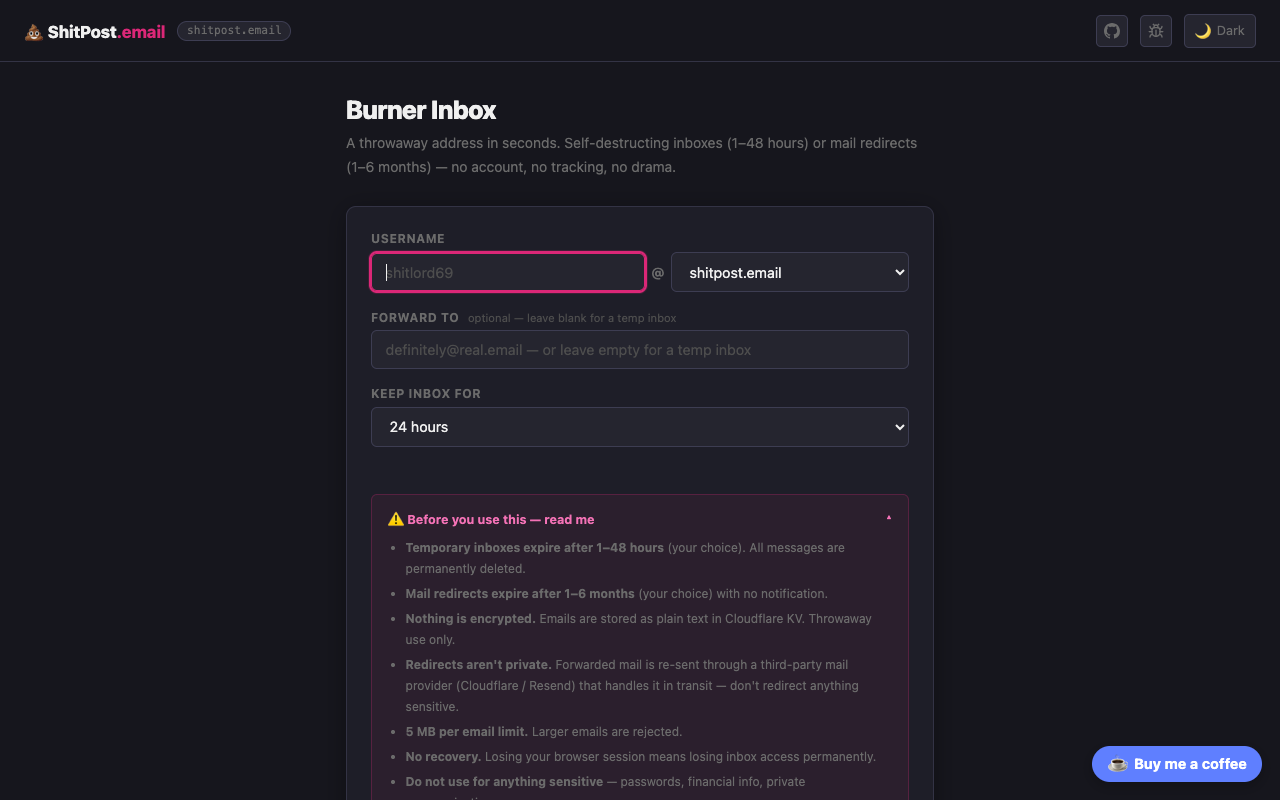
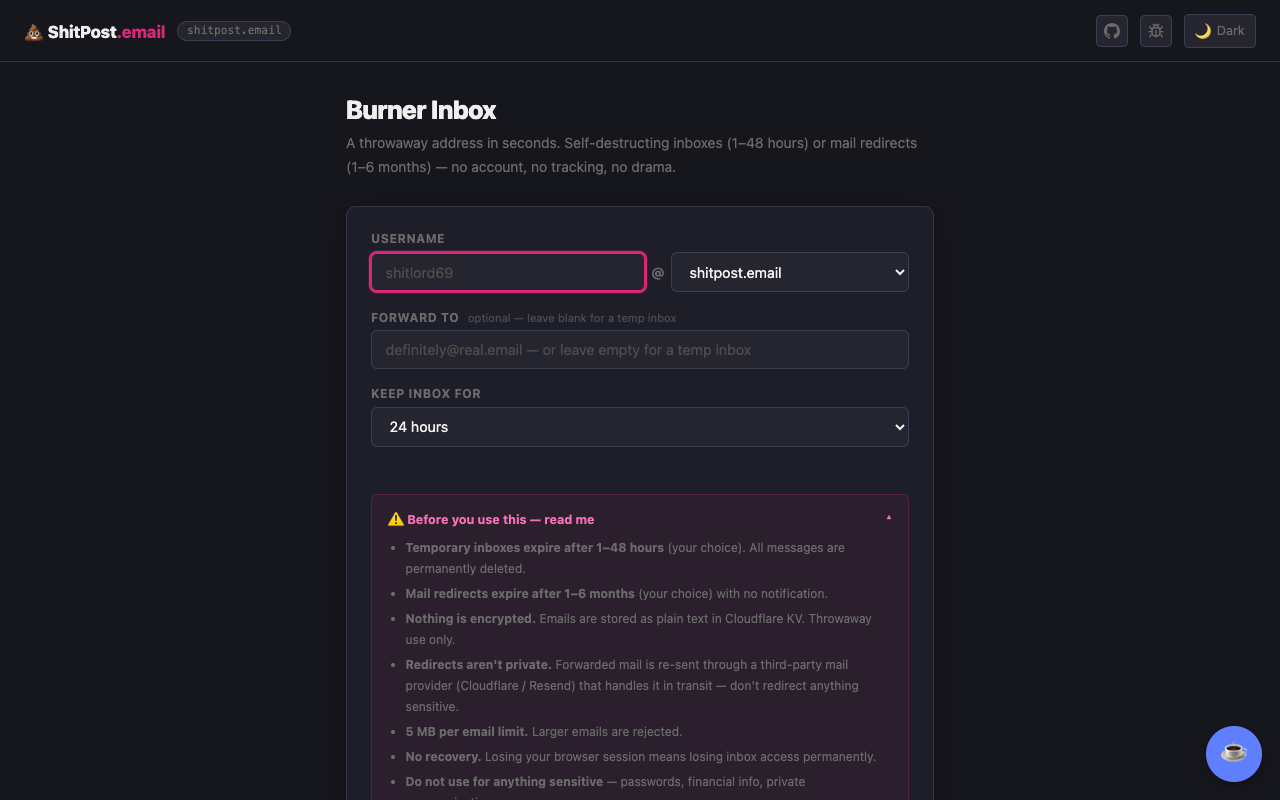
UI: self-hosted Buy Me a Coffee widget + light/dark README screenshots (v1.4.0)
- Replace the flat support link with a self-hosted recreation of the BMC
  floating-widget UX: a circular FAB that toggles a popover (message + CTA),
  wired by a small IIFE (click / click-outside / Esc; respects reduced motion).
  Still zero third-party scripts or external assets on the page.
- README screenshots now ship in light + dark variants that swap with the
  reader's GitHub theme (#gh-dark-mode-only / #gh-light-mode-only). Recaptured
  all four at 1280x800 to reflect the v1.4.0 UI.
- Docs (README, CLAUDE.md, CHANGELOG) + version bump to 1.4.0.

Changed region(s): [[0.8438, 0.9062, 1.0, 1.0]]

diff --git a/worker.js b/worker.js
@@ -457,10 +457,18 @@ header{border-bottom:1px solid var(--border);padding:.85rem 1.5rem;display:flex;
 .icon-btn:hover{border-color:var(--accent);color:var(--text)}
 .icon-btn:focus-visible{outline:2px solid var(--accent);outline-offset:2px}
 .icon-btn svg{width:16px;height:16px;display:block}
-.bmc-btn{position:fixed;right:18px;bottom:18px;z-index:50;display:inline-flex;align-items:center;gap:.4rem;background:#5F7FFF;color:#fff;font-family:inherit;font-size:.9rem;font-weight:700;padding:.6rem .95rem;border-radius:999px;text-decoration:none;box-shadow:0 4px 14px rgba(0,0,0,.25);transition:transform .15s,box-shadow .15s}
-.bmc-btn:hover{transform:translateY(-2px);box-shadow:0 6px 18px rgba(0,0,0,.3)}
-.bmc-btn:focus-visible{outline:2px solid #fff;outline-offset:2px}
-.bmc-btn .bmc-cup{font-size:1.05rem;line-height:1}
+.bmc{position:fixed;right:18px;bottom:18px;z-index:50;display:flex;flex-direction:column;align-items:flex-end;gap:.65rem}
+.bmc-pop{width:248px;background:var(--surface);border:1px solid var(--border);border-radius:14px;padding:1.05rem 1.15rem;box-shadow:var(--shadow);transform-origin:bottom right;opacity:0;visibility:hidden;transform:translateY(10px) scale(.96);pointer-events:none;transition:opacity .18s ease,transform .18s ease,visibility .18s}
+.bmc.open .bmc-pop{opacity:1;visibility:visible;transform:translateY(0) scale(1);pointer-events:auto}
+.bmc-msg{font-size:.92rem;font-weight:800;color:var(--text);margin:0 0 .25rem}
+.bmc-desc{font-size:.78rem;color:var(--muted);line-height:1.55;margin:0 0 .85rem}
+.bmc-cta{display:flex;align-items:center;justify-content:center;gap:.4rem;background:#5F7FFF;color:#fff;font-weight:700;font-size:.9rem;padding:.55rem .85rem;border-radius:9px;text-decoration:none}
+.bmc-cta:hover{opacity:.9}
+.bmc-cta:focus-visible{outline:2px solid var(--accent);outline-offset:2px}
+.bmc-fab{width:56px;height:56px;border-radius:50%;background:#5F7FFF;color:#fff;border:none;cursor:pointer;font-size:1.6rem;line-height:1;display:flex;align-items:center;justify-content:center;box-shadow:0 4px 14px rgba(0,0,0,.3);transition:transform .15s,box-shadow .15s}
+.bmc-fab:hover{transform:scale(1.06);box-shadow:0 6px 20px rgba(0,0,0,.36)}
+.bmc-fab:focus-visible{outline:2px solid var(--accent);outline-offset:3px}
+@media (prefers-reduced-motion:reduce){.bmc-pop,.bmc-fab{transition:none}}
 main{flex:1;padding:2rem 1rem;max-width:620px;margin:0 auto;width:100%}
 h1{font-size:1.6rem;font-weight:800;margin-bottom:.4rem;letter-spacing:-.02em}
 .sub{color:var(--muted);font-size:.875rem;line-height:1.7;margin-bottom:1.75rem}
@@ -550,9 +558,14 @@ footer{border-top:1px solid var(--border);padding:.8rem 1.5rem;text-align:center
 <main id="app" tabindex="-1"></main>
 <div id="announce" class="sr-only" aria-live="polite" aria-atomic="true"></div>
 <footer>No accounts · No tracking · Inboxes self-destruct after 24h · Zero fucks given</footer>
-<a class="bmc-btn" href="${BMC_URL}" target="_blank" rel="noopener noreferrer" aria-label="Buy me a coffee — support this project">
-  <span class="bmc-cup" aria-hidden="true">☕</span> Buy me a coffee
-</a>
+<div class="bmc" id="bmc">
+  <div class="bmc-pop" id="bmc-pop" role="dialog" aria-label="Support ShitPost.email">
+    <p class="bmc-msg">Thanks for your support! ☕</p>
+    <p class="bmc-desc">If a burner inbox saved your real one, a coffee keeps the lights on.</p>
+    <a class="bmc-cta" href="${BMC_URL}" target="_blank" rel="noopener noreferrer">Buy me a coffee</a>
+  </div>
+  <button class="bmc-fab" id="bmc-fab" type="button" aria-expanded="false" aria-controls="bmc-pop" aria-label="Support this project — buy me a coffee"><span aria-hidden="true">☕</span></button>
+</div>
 <script>
 const DOMAINS      = ${JSON.stringify(ALLOWED_DOMAINS)};
 const INIT_DOMAIN  = ${JSON.stringify(currentDomain)};
@@ -955,6 +968,17 @@ App.home();
 window.matchMedia('(prefers-color-scheme: dark)').addEventListener('change', () => {
   if (!localStorage.getItem('tm-theme')) App.home(); // re-render syncs the button
 });
+
+// Buy Me a Coffee widget (self-hosted — no third-party script). Toggle the popover.
+// Lives outside #app, so App re-renders never touch it; wired once.
+(function(){
+  const wrap = document.getElementById('bmc'), fab = document.getElementById('bmc-fab');
+  if (!wrap || !fab) return;
+  const set = open => { wrap.classList.toggle('open', open); fab.setAttribute('aria-expanded', open ? 'true' : 'false'); };
+  fab.addEventListener('click', e => { e.stopPropagation(); set(!wrap.classList.contains('open')); });
+  document.addEventListener('click', e => { if (!wrap.contains(e.target)) set(false); });
+  document.addEventListener('keydown', e => { if (e.key === 'Escape') set(false); });
+})();
 </script>
 </body>
 </html>`;

diff --git a/CLAUDE.md b/CLAUDE.md
@@ -7,7 +7,7 @@ ShitPost.email (repo: `throwaway-email`) is a disposable email service built as 
 **Stack:** Cloudflare Workers + Cloudflare KV + Cloudflare Email Routing
 **UI:** Hand-rolled vanilla JS + CSS, embedded as a template string in `worker.js` (no framework, no bundler)
 **Deploy:** `wrangler deploy`
-**Version:** 1.3.0
+**Version:** 1.4.0
 
 The single most important constraint: **everything stays in `worker.js`, dependency-free, paste-able straight into the Cloudflare dashboard editor.** Do not introduce a bundler, a framework, an npm runtime dependency, or a second source file without explicit agreement.
 
@@ -186,7 +186,9 @@ Every PR that changes code must update relevant documentation in the **same comm
 
 ### Screenshots
 
-`home.png` and `inbox.png` in `.github/screenshots/` are **captured by hand** from the live UI (there is no automated screenshot script). Recapture both when the home or inbox view changes visually — layout, controls, colors, or copy. Capture in **dark theme** (the default) at a typical desktop width to match the existing shots. Do not hand-edit the PNGs.
+`.github/screenshots/` holds four shots: `home.png` / `inbox.png` (dark) and `home-light.png` / `inbox-light.png` (light). The README pairs them with `#gh-dark-mode-only` / `#gh-light-mode-only` so they swap with the reader's GitHub theme. Recapture **all four** when the home or inbox view changes visually — layout, controls, colors, or copy.
+
+Capture at **1280×800** to match the existing shots. There's no committed script, but they regenerate cleanly by driving the local UI with a headless browser — run `wrangler dev`, then a one-off `puppeteer-core` (system Chrome via `executablePath`) script: set `page.emulateMediaFeatures([{ name: 'prefers-color-scheme', value: 'dark' | 'light' }])` for each theme, screenshot the home view, then create an inbox and intercept `GET /api/inbox` with sample messages for the inbox view (the `email()` handler can't run locally). Do not hand-edit the PNGs.
 
 ### Social preview card
 
@@ -287,14 +289,14 @@ Stored message bodies are clamped: `text` to 10 000 chars, `html` to 50 000 char
 - **Inbox polling:** auto-refreshes every `REFRESH_SECS` (30 s) with a visible countdown.
 - **Session token:** the inbox token is held **in memory only** (module-scoped `_inbox`), never persisted. Closing the tab discards it — by design.
 - **Header links:** two `.icon-btn` anchors — "View source on GitHub" (`REPO_URL`) and "Report a bug" (`REPO_URL` + `/issues/new?template=bug_report.yml`) — sit next to the theme toggle.
-- **Buy Me a Coffee button:** a self-hosted floating `.bmc-btn` anchor (fixed bottom-right, BMC brand color `#5F7FFF`, ☕ glyph) links to `BMC_URL`. **Not** the third-party BMC widget script — it's plain HTML/CSS, so the page loads **no** external client-side resources.
+- **Buy Me a Coffee widget:** a self-hosted recreation of the BMC floating-widget UX — a circular `.bmc-fab` button that toggles a `.bmc-pop` popover (message + CTA to `BMC_URL`), wired by a tiny IIFE at the end of the script (click / click-outside / Esc; respects `prefers-reduced-motion`). **Not** the third-party BMC widget script — it's plain HTML/CSS/JS, so the page loads **no** external client-side resources.
 - `buildHTML(currentDomain)` interpolates the current request's domain (so the displayed default matches the host) and the full `ALLOWED_DOMAINS` list into the dropdown.
 
 ---
 
 ## Conventions
 
-- **Single file, zero dependencies.** All production code stays in `worker.js`. Do not add an npm runtime dependency, a bundler, a framework, or a second source file. Wrangler (dev/deploy only) is the sole devDependency. The served page loads **no third-party client-side scripts or assets** either (the "Buy me a coffee" button is a self-hosted `<a>`, not the BMC widget) — keep it that way.
+- **Single file, zero dependencies.** All production code stays in `worker.js`. Do not add an npm runtime dependency, a bundler, a framework, or a second source file. Wrangler (dev/deploy only) is the sole devDependency. The served page loads **no third-party client-side scripts or assets** either (the "Buy me a coffee" floating widget is a self-hosted recreation, not the BMC widget script) — keep it that way.
 - **Paste-ability.** `worker.js` must remain valid to paste directly into the Cloudflare dashboard editor. No imports of local modules, no build-time transforms.
 - **Section discipline.** Keep new code under the matching banner comment (Config / MIME parser / Email / API / UI / Helpers / Exports).
 - **CORS stays open.** The API is intentionally `Access-Control-Allow-Origin: *`. Don't tighten it without a reason — the UI and any third-party caller depend on it.

diff --git a/README.md b/README.md
@@ -5,7 +5,7 @@
 
 [![License: MIT](https://img.shields.io/badge/License-MIT-db2777.svg)](LICENSE)
 [![CI](https://img.shields.io/github/actions/workflow/status/shamu4life/throwaway-email/ci.yml?branch=main&label=CI&color=db2777)](../../actions/workflows/ci.yml)
-[![Version](https://img.shields.io/badge/version-1.3.0-db2777.svg)](docs/CHANGELOG.md)
+[![Version](https://img.shields.io/badge/version-1.4.0-db2777.svg)](docs/CHANGELOG.md)
 [![Cloudflare Workers](https://img.shields.io/badge/Deployed_on-Cloudflare_Workers-f38020?logo=cloudflare&logoColor=white)](https://workers.cloudflare.com)
 [![Zero dependencies](https://img.shields.io/badge/dependencies-0-22c55e.svg)]()
 
@@ -38,7 +38,9 @@ You need an email address for a one-time signup, an OTP code, or a sketchy downl
 
 | Home | Inbox |
 |---|---|
-| ![Home — pick a username and domain, choose inbox or redirect](.github/screenshots/home.png) | ![Inbox — messages land in real time with a live countdown and dark/light theme](.github/screenshots/inbox.png) |
+| <img alt="Home — pick a username and domain, choose inbox or redirect" src=".github/screenshots/home.png#gh-dark-mode-only"><img alt="Home — pick a username and domain, choose inbox or redirect" src=".github/screenshots/home-light.png#gh-light-mode-only"> | <img alt="Inbox — messages land in real time with a live countdown" src=".github/screenshots/inbox.png#gh-dark-mode-only"><img alt="Inbox — messages land in real time with a live countdown" src=".github/screenshots/inbox-light.png#gh-light-mode-only"> |
+
+<sub>Screenshots swap automatically with your GitHub light/dark theme.</sub>
 
 ---
 
@@ -61,7 +63,7 @@ Instead of an inbox, point a throwaway address at a real one. Everything sent to
 <details>
 <summary><strong>Web UI</strong></summary>
 
-A fully functional single-page app served from the same Worker — no separate frontend, no framework, just hand-rolled vanilla JS and CSS embedded in `worker.js`. Dark and light themes (follows your OS by default, with a manual toggle persisted in `localStorage`), a live auto-refreshing inbox with countdown, copy-to-clipboard for your address, and one-tap message delete. The header links to the source on GitHub and a quick **Report a bug** form, and there's a self-hosted Buy Me a Coffee support button — no third-party scripts load on the page.
+A fully functional single-page app served from the same Worker — no separate frontend, no framework, just hand-rolled vanilla JS and CSS embedded in `worker.js`. Dark and light themes (follows your OS by default, with a manual toggle persisted in `localStorage`), a live auto-refreshing inbox with countdown, copy-to-clipboard for your address, and one-tap message delete. The header links to the source on GitHub and a quick **Report a bug** form, and there's a self-hosted Buy Me a Coffee widget (a floating button that expands to a support popover) — built from scratch, so no third-party scripts load on the page.
 
 </details>
 
@@ -143,7 +145,7 @@ throwaway-email/
     ├── social-preview-light.svg # 1280×640 social card (light)
     ├── social-preview.png       # Rasterized 1280×640 card for the GitHub Social Preview upload
     ├── logo.svg                 # Compact wordmark brand asset
-    ├── screenshots/             # home.png, inbox.png — captured by hand from the live UI
+    ├── screenshots/             # home/inbox .png (dark) + -light variants — theme-swapped in the README
     ├── CONTRIBUTING.md          # Setup, deploy, workflow, and conventions
     ├── PULL_REQUEST_TEMPLATE.md
     ├── ISSUE_TEMPLATE/          # Bug report + feature request forms

diff --git a/docs/CHANGELOG.md b/docs/CHANGELOG.md
@@ -5,6 +5,14 @@ Format follows [Keep a Changelog](https://keepachangelog.com/en/1.0.0/).
 
 ---
 
+## [1.4.0] — 2026-06-04
+
+### Changed
+- UI — the Buy Me a Coffee button is now a floating **widget**: a circular button that expands into a support popover (message + CTA). It's a self-hosted recreation of the widget experience — still no third-party scripts or external assets load on the page.
+
+### Added
+- Docs — README screenshots now ship in **light and dark variants** that swap automatically with your GitHub theme.
+
 ## [1.3.0] — 2026-06-04
 
 ### Added
